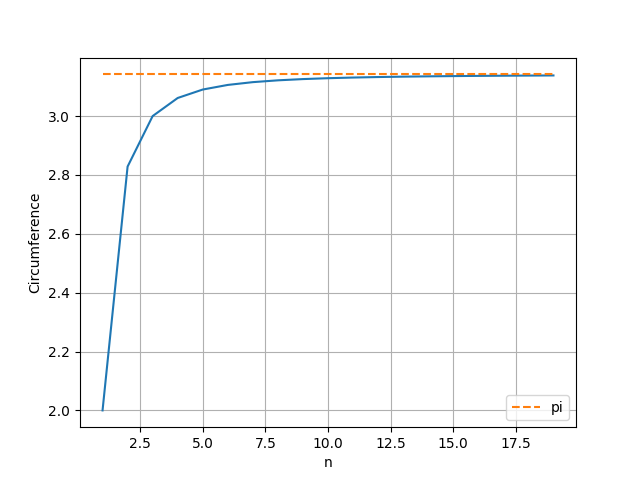
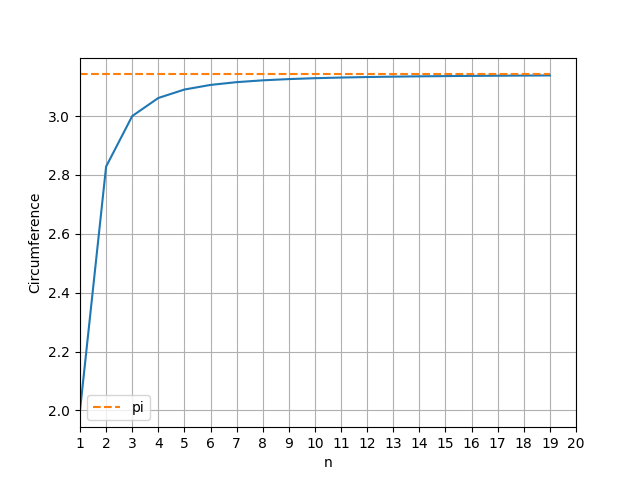
Added second figure

diff --git a/Wektory/main.py b/Wektory/main.py
@@ -20,6 +20,8 @@ def main():
     ys = [calc_circumference(x) for x in xs]
     plt.plot(xs, ys)
     plt.xlabel("n")
+    plt.xlim(1, 20)
+    plt.xticks(list(range(1,21)))
     plt.ylabel("Circumference")
     plt.plot(list(range(1,20)), [math.pi for _ in range(1,20)], label="pi", linestyle="--")
     plt.legend()
